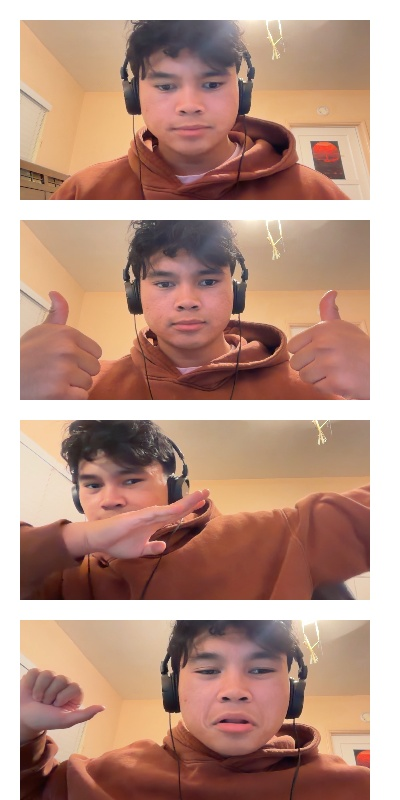
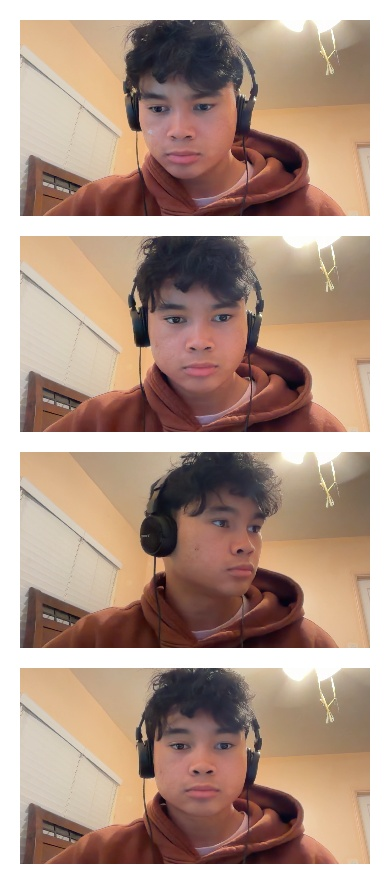
fixed aspect ratio

diff --git a/camera.py b/camera.py
@@ -7,14 +7,30 @@ cam = VideoCapture(0)
 num_images = 4
 cooldown_seconds = 2
 
-canvas_h, canvas_w = 1800, 600 
-canvas = np.ones((canvas_h, canvas_w, 3), dtype=np.uint8) * 255
-
 slot_x = 20
 slot_y = 20
-slot_w = 600
-slot_h = 450
+slot_w = 350
+slot_h = int(slot_w * 9 / 16)
 slot_gap = 20
+
+canvas_w = slot_x + slot_w + 20
+canvas_h = slot_y + (num_images * slot_h) + ((num_images - 1) * slot_gap) + 20
+canvas = np.ones((canvas_h, canvas_w, 3), dtype=np.uint8) * 255
+
+
+def center_crop_to_aspect(img, target_w, target_h):
+    target_ratio = target_w / target_h
+    h, w = img.shape[:2]
+    current_ratio = w / h
+
+    if current_ratio > target_ratio:
+        new_w = int(h * target_ratio)
+        x1 = (w - new_w) // 2
+        return img[:, x1:x1 + new_w]
+
+    new_h = int(w / target_ratio)
+    y1 = (h - new_h) // 2
+    return img[y1:y1 + new_h, :]
 
 captured_frames = []
 
@@ -37,11 +53,17 @@ if not captured_frames:
     print("No images captured.")
 else:
     for i, img in enumerate(captured_frames):
-        resized_img = resize(img, (slot_w, slot_h))
+        cropped_img = center_crop_to_aspect(img, slot_w, slot_h)
+        resized_img = resize(cropped_img, (slot_w, slot_h))
         y1 = slot_y + i * (slot_h + slot_gap)
         y2 = y1 + slot_h
         x1 = slot_x
         x2 = x1 + slot_w
+
+        if y2 > canvas_h or x2 > canvas_w:
+            print(f"Skipping image {i + 1}: slot is out of canvas bounds")
+            continue
+
         canvas[y1:y2, x1:x2] = resized_img
 
     imshow("Canvas with Images", canvas)
